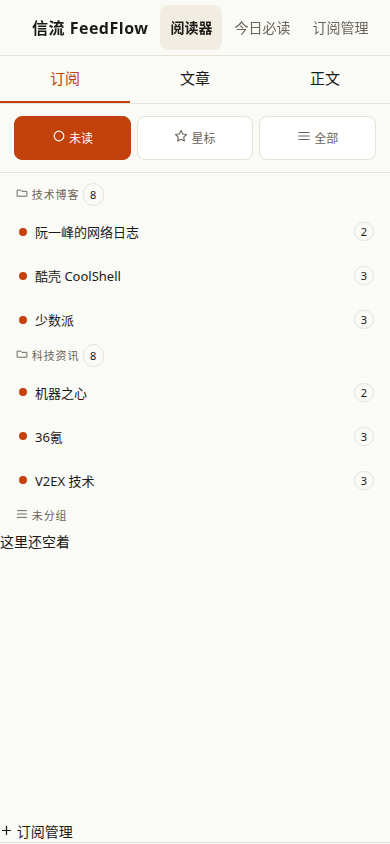
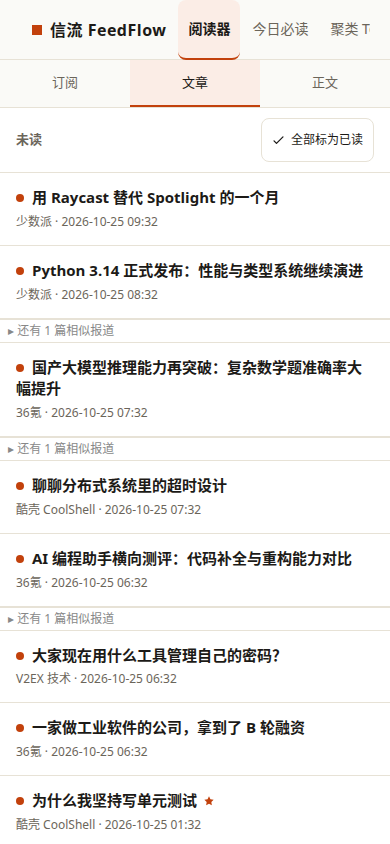
feedflow v1.13.0: mobile view switcher joins newspaper design layer

diff --git a/feedflow/feedflow/static/css/design-v113.css b/feedflow/feedflow/static/css/design-v113.css
@@ -1,0 +1,21 @@
+/* FeedFlow v1.13.0 design layer: 移动端三栏切换栏并入报纸视觉。
+   视觉逻辑：切换栏就是报纸的页眉细线——纸面底、细线分隔、未选中态次要色文字，
+   选中态照搬顶栏导航激活态（墨色字 + 浅柿底 + 2px 柿色下线），不改 mobile.js 逻辑，
+   只覆盖颜色与字号；全部规则包在 768px 媒体查询里，桌面三栏一字不动。 */
+
+@media (max-width: 768px) {
+  .mobile-views {
+    background: #FAFAF7;
+    border-bottom: 1px solid #E7E2D6;
+  }
+  .mobile-view-btn {
+    font-size: 13px;
+    color: #6B655A;
+    border-bottom: 2px solid transparent;
+  }
+  .mobile-view-btn.is-active {
+    color: #1C1A17;
+    background: #FBEDE6;
+    border-bottom-color: #C2410C;
+  }
+}

diff --git a/feedflow/feedflow/templates/base.html b/feedflow/feedflow/templates/base.html
@@ -6,6 +6,7 @@
 <title>{% block title %}信流 FeedFlow{% endblock %}</title>
 <link rel="stylesheet" href="{{ url_for('static', filename='css/style.css') }}">
 <link rel="stylesheet" href="{{ url_for('static', filename='css/design-v112.css') }}">
+<link rel="stylesheet" href="{{ url_for('static', filename='css/design-v113.css') }}">
 </head>
 <body>
 <header class="topbar">

diff --git a/feedflow/tests/test_design_v113.py b/feedflow/tests/test_design_v113.py
@@ -1,0 +1,37 @@
+import pathlib
+
+import pytest
+
+from feedflow import create_app
+
+
+@pytest.fixture
+def client(tmp_path, monkeypatch):
+    monkeypatch.setenv("FEEDFLOW_DB", str(tmp_path / "test.db"))
+    app = create_app()
+    app.config.update(TESTING=True)
+    with app.test_client() as c:
+        yield c
+
+
+def test_mobile_design_layer_linked_and_served(client):
+    resp = client.get("/")
+    assert resp.status_code == 200
+    assert "css/design-v113.css" in resp.get_data(as_text=True)
+    css = client.get("/static/css/design-v113.css")
+    assert css.status_code == 200
+    body = css.get_data(as_text=True)
+    assert "@media (max-width: 768px)" in body
+    for selector in (".mobile-views", ".mobile-view-btn", ".mobile-view-btn.is-active"):
+        assert selector in body, selector
+    assert "gradient" not in body.lower()
+    assert "!important" not in body
+    # Desktop layout untouched: no bare .app-shell override outside the media query.
+    assert ".app-shell {" not in body
+
+
+def test_mobile_switcher_uses_newspaper_tokens():
+    css = pathlib.Path(__file__).resolve().parents[1] / "feedflow" / "static" / "css" / "design-v113.css"
+    body = css.read_text()
+    for token in ("#FAFAF7", "#1C1A17", "#6B655A", "#E7E2D6", "#C2410C", "#FBEDE6"):
+        assert token in body, token

diff --git a/feedflow/CHANGELOG.md b/feedflow/CHANGELOG.md
@@ -1,6 +1,18 @@
 
 # 更新日志
 
+## v1.13.0 — 2026-10-25
+
+### 前端美化（设计层，不改功能与后端）
+- 新增 `feedflow/static/css/design-v113.css`，base.html 在 design-v112.css 之后引用；原样式表、v112 层与 mobile.js 一字不动。关闭 v1.12.0 已知限制“移动端三栏切换样式未动”一项。
+  视觉逻辑“切换栏就是报纸的页眉细线”见 `docs/DESIGN.md`：切换栏纸面底（#FAFAF7）加细线分隔（#E7E2D6）；未选中按钮 13px 次要色（#6B655A）、2px 透明下线；选中态照搬顶栏导航激活态——墨色字（#1C1A17）+ 浅柿底（#FBEDE6）+ 2px 柿色下线（#C2410C）。全部规则包在 `@media (max-width: 768px)` 里，桌面三栏不受影响。
+- 测试：`tests/test_design_v113.py` 2 例（设计层引用与 served、切换栏三选择器、无渐变、无 !important、无桌面 .app-shell 覆盖、六个报纸 token 齐全）；v112 设计测试 3 例同跑，全量 5/5 通过。
+- 视觉验收：真实服务（18312 端口，种子数据）+ Playwright 390px 截图亲眼核对两张——订阅态（订阅钮浅柿底 + 柿色下线、真实订阅树）与文章态（文章钮激活、真实文章列表），计算样式与规则一一对上；README 移动端门面图换成新文章态截图，订阅态另存 `docs/screenshots/reader-mobile-tree.png`。冒烟服务与演示库已删，截图脚本在 muse-build/shot/ff-v113-shot.js。
+
+### 本轮已知限制
+- 390px 下顶栏导航仍横向溢出（今日必读/聚类 Top 被截断），属既有问题，本轮只动切换栏，未动顶栏。
+- 阅读器空态仍是功能性提示，未做成导览页（v1.12.0 已知限制，留待下轮）。
+
 ## v1.12.0 — 2026-10-25
 
 ### 新增

diff --git a/feedflow/docs/DESIGN.md b/feedflow/docs/DESIGN.md
@@ -14,3 +14,11 @@
   摘要/统计页内 style 用后代选择器提特异性覆盖。
 - 已知：阅读器空态仍是功能性提示（点文章标题后正文显示于此），不作 README 门面；
   门面截图用已打开文章的阅读器与今日必读页，均为真实种子数据。
+
+## v1.13.0 移动端切换栏并入报纸视觉
+
+- 新层 `feedflow/static/css/design-v113.css`（在 v112 之后加载），视觉逻辑“切换栏就是报纸的页眉细线”：
+  纸面底、细线分隔、未选中态次要色文字，选中态照搬顶栏导航激活态（墨色字 + 浅柿底 + 2px 柿色下线）。
+  mobile.js 逻辑一字未动；全部规则包在 768px 媒体查询里，桌面三栏一字不动。
+- 验收：390px 真实服务 + 种子数据两张截图（订阅态、文章态），计算样式与规则一一对上；
+  README 移动端门面图换成新文章态截图。已知保留：390px 下顶栏导航仍横向溢出（既有问题，本轮未动）。
